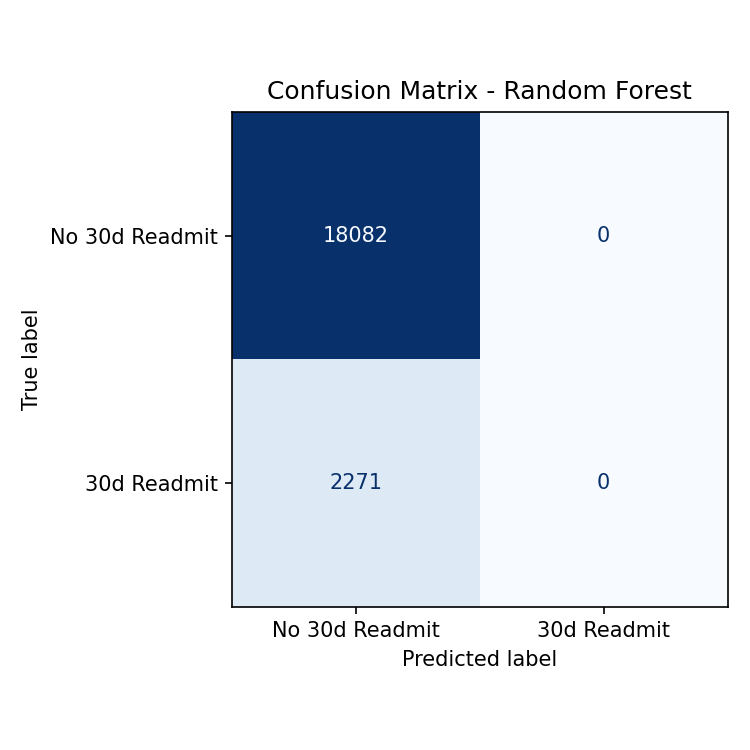
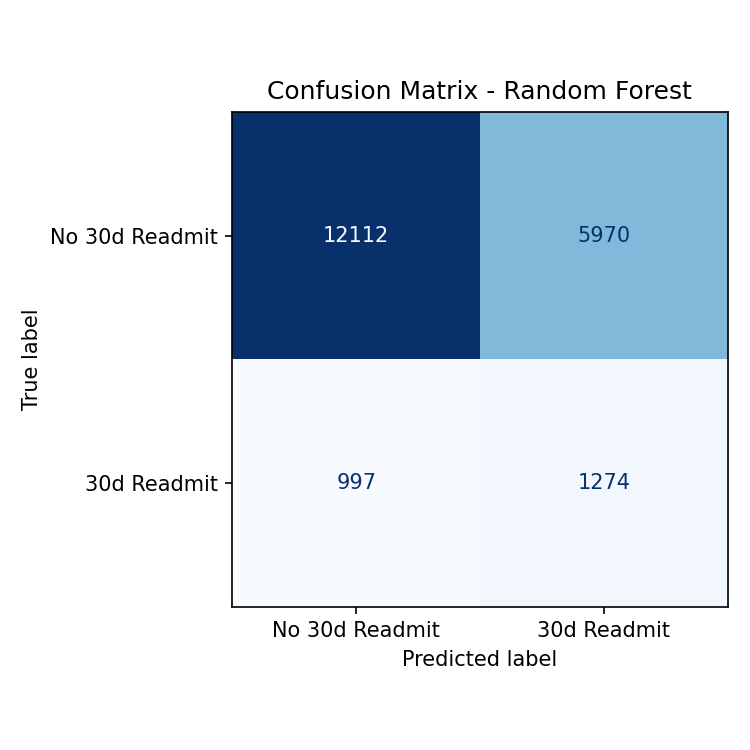
Improve Random Forest with balanced class weights

Changed region(s): [[0.3067, 0.1533, 0.9813, 0.828], [0.7667, 0.6133, 0.828, 0.6747], [0.4293, 0.3067, 0.5213, 0.3373]]

diff --git a/train_models.py b/train_models.py
@@ -114,6 +114,7 @@ models = {
             min_samples_leaf=20,   # requires enough samples per leaf
             random_state=RANDOM_STATE,
             n_jobs=-1,
+            class_weight="balanced",
         )),
     ]),
 }
